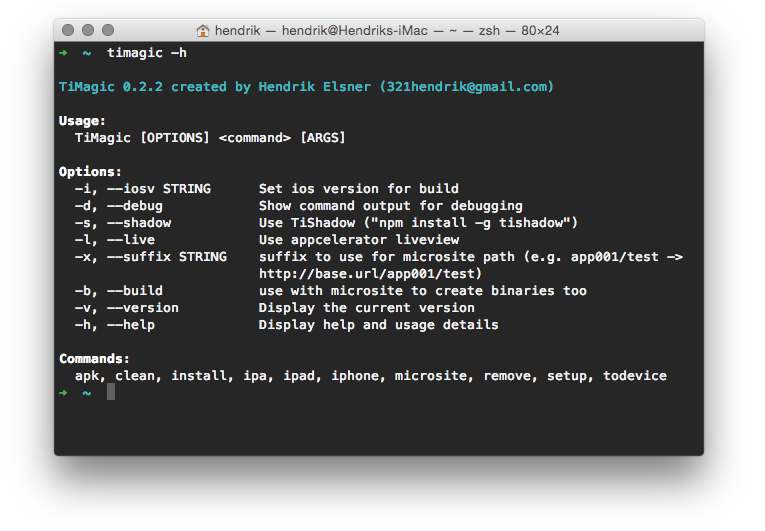
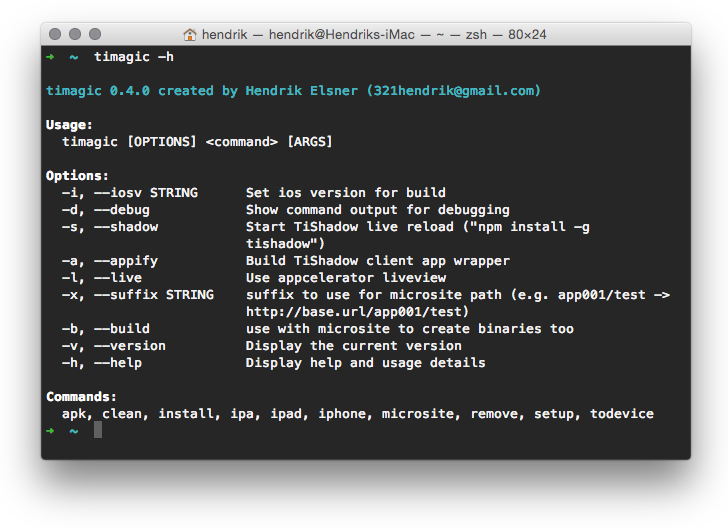
0.4.0 added support from tishadow appify & iOS device install

Changed region(s): [[0.0302, 0.0302, 0.9973, 0.9376]]

diff --git a/lib/logic.js b/lib/logic.js
@@ -787,6 +787,34 @@
 	}
 
 	/**
+	 * Tests if libimobiledevice is installed
+	 * @return {Boolean} [description]
+	 */
+	function hasLibimobiledevice () {
+		var cmd = ['which', 'ideviceinstaller'];
+		return execChild(cmd)
+			.then(function (data) {
+				return {hasLibimobiledevice: (data.indexOf('not found') === -1)};
+			})
+	}
+
+	/**
+	 * Get list of connected iOS devices (needs libimobiledevice)
+	 * @return {Promise}         Q-Promise
+	 */
+	function getIosDeviceList () {
+		var cmd = 'system_profiler SPUSBDataType | sed -n "/iP/,/Serial/p" | grep "Serial Number:"';
+
+		return execChild(cmd)
+			.then(function (data) {
+				data = data.replace(/\s+Serial Number:\s+/g,'').split('\n').slice(0,-1);
+				return data;
+			})
+			.catch(function (err) {})
+		;
+	}
+
+	/**
 	 * Install APK to a connected device
 	 * @param  {String} adbPath  path to adb executable
 	 * @param  {String} deviceId device id from "adb devices"
@@ -799,6 +827,26 @@
 		return execChild(cmd)
 			.then(function (data) {
 				if (data.indexOf('Success') > -1) {
+					return {deviceId: deviceId, success: true};
+				} else {
+					return {deviceId: deviceId, err: data};
+				}
+			})
+		;
+	}
+
+	/**
+	 * Install IPA to a connected device
+	 * @param  {String} deviceId device udid
+	 * @param  {String} ipaPath  path to ipa to be installed
+	 * @return {Promise}          Q-Promise
+	 */
+	function ipaToDevice (deviceId, ipaPath) {
+		var cmd = ['ideviceinstaller', '-u', deviceId, '-g', ipaPath];
+
+		return execChild(cmd)
+			.then(function (data) {
+				if (data.indexOf('Complete') > -1) {
 					return {deviceId: deviceId, success: true};
 				} else {
 					return {deviceId: deviceId, err: data};
@@ -871,37 +919,89 @@
 		 * @return {Promise}         Q-Promise
 		 */
 		return function install (env, settings, tiapp, params) {
-			var androidDeviceList;
+			var androidDeviceList = [];
+			var iosDeviceList = [];
+			var libimobiledeviceInstalled = false;
 			var installedToDevices = 0;
+
 			// get list of connected devices
 			return getAndroidDeviceList(settings['adb_path'])
-				// if any devices are connected
+				// if any android devices are connected
 				.then(function (data) {
 					androidDeviceList = data;
-
-					if (!androidDeviceList || !androidDeviceList.length) {
-						throw new Error('ADB cannot find any connected devices. Try to reconnect devices and run again.');
+					if (!androidDeviceList || !androidDeviceList.length) {
+						androidDeviceList = [];
 					}
 					return true;
 				})
-				.then(function () {
-					if (!withBuild) {
-						return path.join(settings['apk_output_path'], tiapp.get('name') + '.apk');
+				// check for libimobiledevice
+				.then(hasLibimobiledevice)
+				.then(function (data) {
+					if (data.hasLibimobiledevice) {
+						libimobiledeviceInstalled = true;
+						// if any android devices are connected
+						return getIosDeviceList()
+							.then(function (data) {
+								iosDeviceList = data;
+
+								if (!iosDeviceList || !iosDeviceList.length) {
+									iosDeviceList = [];
+								}
+								return true;
+							})
+						;
 					}
-					return apk(env, settings, tiapp, params);
+					cli.info('Not installing to iOS devices. (Please install libimobiledevice --> "homebrew install libimobiledevice")');
+					return true;
 				})
-				// install to connected devices
-				.then(function (outputPath) {
+				// should build?
+				.then(function () {
+					var outputPaths = {};
+
+					if (!withBuild) {
+						outputPaths.apk = path.join(settings['apk_output_path'], tiapp.get('name') + '.apk');
+						outputPaths.ipa = path.join(settings['ipa_output_path'], tiapp.get('name') + '.ipa');
+						return outputPaths;
+					}
+
+					var promises = [];
+
+					if (androidDeviceList.length) {
+						promises.push(apk(env, settings, tiapp, params));
+					}
+					if (iosDeviceList.length && libimobiledeviceInstalled) {
+						promises.push(ipa(env, settings, tiapp, params));
+					}
+
+					return Q.all(promises)
+						.then(function (paths) {
+							outputPaths = {};
+							for (var i = 0; i < paths.length; i++) {
+								if (paths[i].indexOf('.ipa') !== -1) {
+									outputPaths.ipa = paths[i];
+								}
+								if (paths[i].indexOf('.apk') !== -1) {
+									outputPaths.apk = paths[i];
+								}
+							}
+							return outputPaths;
+						})
+					;
+				})
+				// install to connected android devices
+				.then(function (outputPaths) {
 					var noneInstalled = true;
 
 					var promises = [];
+
+					// Install to android devices
 					for (var i = 0; i < androidDeviceList.length; i++) {
 						(function (i) {
-							var promise = apkToDevice(settings['adb_path'], androidDeviceList[i], outputPath)
+							var promise = apkToDevice(settings['adb_path'], androidDeviceList[i], outputPaths.apk)
 								// show install status
 								.then(function (data) {
 									installedToDevices++;
-									console.log('\n' + installedToDevices + '/' + androidDeviceList.length, 'devices');
+									console.log('\n' + installedToDevices + '/' + (androidDeviceList.length + iosDeviceList.length), 'devices');
 									return data;
 								})
 								// check install status
@@ -922,11 +1022,39 @@
 						})(i);
 					}
 
+					// Install to iOS device
+					for (var i = 0; i < iosDeviceList.length; i++) {
+						(function (i) {
+							var promise = ipaToDevice(iosDeviceList[i], outputPaths.ipa)
+								// show install status
+								.then(function (data) {
+									installedToDevices++;
+									console.log('\n' + installedToDevices + '/' + (androidDeviceList.length + iosDeviceList.length), 'devices');
+									return data;
+								})
+								// check install status
+								.then(function (data) {
+									if (data.success) {
+										noneInstalled = false;
+									} else {
+										console.log(color('red', '\nCould not install to ' + data.deviceId + ' err: ' + data.err));
+									}
+									return data;
+								})
+								// @TODO implement app launch
+							;
+							promises.push(promise);
+						})(i);
+					}
+
 					// wait for all installs to finish
 					return Q.all(promises)
 						.then(function () {
+							if (!(androidDeviceList.length + iosDeviceList.length)) {
+								throw new Error('There are no devices connected. Please try to reconnect them.')
+							}
 							if (noneInstalled) {
-								throw new Error('App could not be installed on any devices.')
+								throw new Error('App could not be installed to any device.')
 							}
 						})
 					;
@@ -945,11 +1073,29 @@
 	function removeApkFromDevice (adbPath, deviceId, appId) {
 		var cmd = [adbPath, '-s', deviceId, 'uninstall', appId];
 
-
-
 		return execChild(cmd)
 			.then(function (data) {
 				if (data.indexOf('Success') > -1) {
+					return {deviceId: deviceId, success: true};
+				} else {
+					return {deviceId: deviceId, err: data};
+				}
+			})
+		;
+	}
+
+	/**
+	 * Remove IPA from a connected device
+	 * @param  {String} deviceId device UDID
+	 * @param  {String} appId  application id
+	 * @return {Promise}          Q-Promise
+	 */
+	function removeIpaFromDevice (deviceId, appId) {
+		var cmd = ['ideviceinstaller', '-u', deviceId, '-U', appId];
+
+		return execChild(cmd)
+			.then(function (data) {
+				if (data.indexOf('Complete') > -1) {
 					return {deviceId: deviceId, success: true};
 				} else {
 					return {deviceId: deviceId, err: data};
@@ -967,8 +1113,11 @@
 	 * @return {Promise}         Q-Promise
 	 */
 	function remove (env, settings, tiapp, params) {
-		var androidDeviceList;
+		var androidDeviceList = [];
+		var iosDeviceList = [];
+		var libimobiledeviceInstalled = false;
 		var removedFromDevices = 0;
+
 		// get list of connected devices
 		return getAndroidDeviceList(settings['adb_path'])
 			// if any devices are connected
@@ -976,21 +1125,67 @@
 				androidDeviceList = data;
 
 				if (!androidDeviceList || !androidDeviceList.length) {
-					throw new Error('ADB cannot find any connected devices. Try to reconnect devices and run again.');
+					androidDeviceList = [];
 				}
 				return true;
 			})
-			.then(function (outputPath) {
+			// check for libimobiledevice
+			.then(hasLibimobiledevice)
+			.then(function (data) {
+				if (data.hasLibimobiledevice) {
+					libimobiledeviceInstalled = true;
+					// if any android devices are connected
+					return getIosDeviceList()
+						.then(function (data) {
+							iosDeviceList = data;
+
+							if (!iosDeviceList || !iosDeviceList.length) {
+								iosDeviceList = [];
+							}
+							return true;
+						})
+					;
+				}
+				cli.info('Not installing to iOS devices. (Please install libimobiledevice --> "homebrew install libimobiledevice")');
+				return true;
+			})
+			.then(function () {
 				var noneRemoved = true;
 
 				var promises = [];
+
+				// remove from android devices
 				for (var i = 0; i < androidDeviceList.length; i++) {
 					(function (i) {
 						var promise = removeApkFromDevice(settings['adb_path'], androidDeviceList[i], tiapp.get('id'))
 							// show remove status
 							.then(function (data) {
 								removedFromDevices++;
-								console.log('\n' + removedFromDevices + '/' + androidDeviceList.length, 'devices');
+								console.log('\n' + removedFromDevices + '/' + (androidDeviceList.length + iosDeviceList.length), 'devices');
+								return data;
+							})
+							// check remove status
+							.then(function (data) {
+								if (data.success) {
+									noneRemoved = false;
+								} else {
+									console.log(color('red', '\nCould not remove from ' + data.deviceId + ' err: ' + data.err));
+								}
+								return data;
+							})
+						;
+						promises.push(promise);
+					})(i);
+				}
+
+				// remove from ios devices
+				for (var i = 0; i < iosDeviceList.length; i++) {
+					(function (i) {
+						var promise = removeIpaFromDevice(iosDeviceList[i], tiapp.get('id'))
+							// show remove status
+							.then(function (data) {
+								removedFromDevices++;
+								console.log('\n' + removedFromDevices + '/' + (androidDeviceList.length + iosDeviceList.length), 'devices');
 								return data;
 							})
 							// check remove status
@@ -1010,6 +1205,9 @@
 				// wait for all removes to finish
 				return Q.all(promises)
 					.then(function () {
+						if (!(androidDeviceList.length + iosDeviceList.length)) {
+							throw new Error('There are no devices connected. Please try to reconnect them.')
+						}
 						if (noneRemoved) {
 							throw new Error('App could not be removed on any devices.')
 						}

diff --git a/README.md b/README.md
@@ -4,7 +4,7 @@ NodeJS Command-line tool for the Titanium CLI and ADB.
 
 ![*Screenshot here*](screen.png)
 ### Features
-* Build and install in parallel to all connected android devices and genymotion or run in iOS simulator.
+* Build and install in parallel to all connected devices and genymotion or run in iOS simulator. (iOS device install requires [libimobiledevice via homebrew](http://brewformulas.org/Libimobiledevice))
 * All build related information is pulled from cli setup and the project's tiapp.xml.
 * Use your favourite IDE for app development without sacrificing easy and fast access to Titanium CLI features.
 * Distribute your app to iOS and Android devices using a generated microsite
@@ -14,6 +14,16 @@ NodeJS Command-line tool for the Titanium CLI and ADB.
 
 ### Use TiMagic
 Run `timagic -h` for usage information.
+
+### For iOS Device Install
+Install Homebrew:
+```
+ruby -e "$(curl -fsSL https://raw.githubusercontent.com/Homebrew/install/master/install)"
+```
+Install libimobiledevice:
+```
+brew install libimobiledevice
+```
 
 ### Development install
 1. Clone the repository to a local folder.
